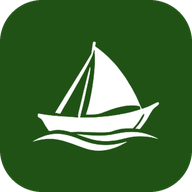
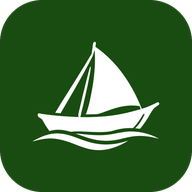
global css changes

diff --git a/src/styles/global.css b/src/styles/global.css
@@ -1,7 +1,7 @@
 @import "tailwindcss";
 
 @theme {
-  --color-brand-green: #1F5214;
+  --color-brand-green: #194C10;
   --color-brand-orange: #F28C1E;
   --color-brand-offwhite: #FAF8F5;
   --color-brand-dark: #1A1A1A;
